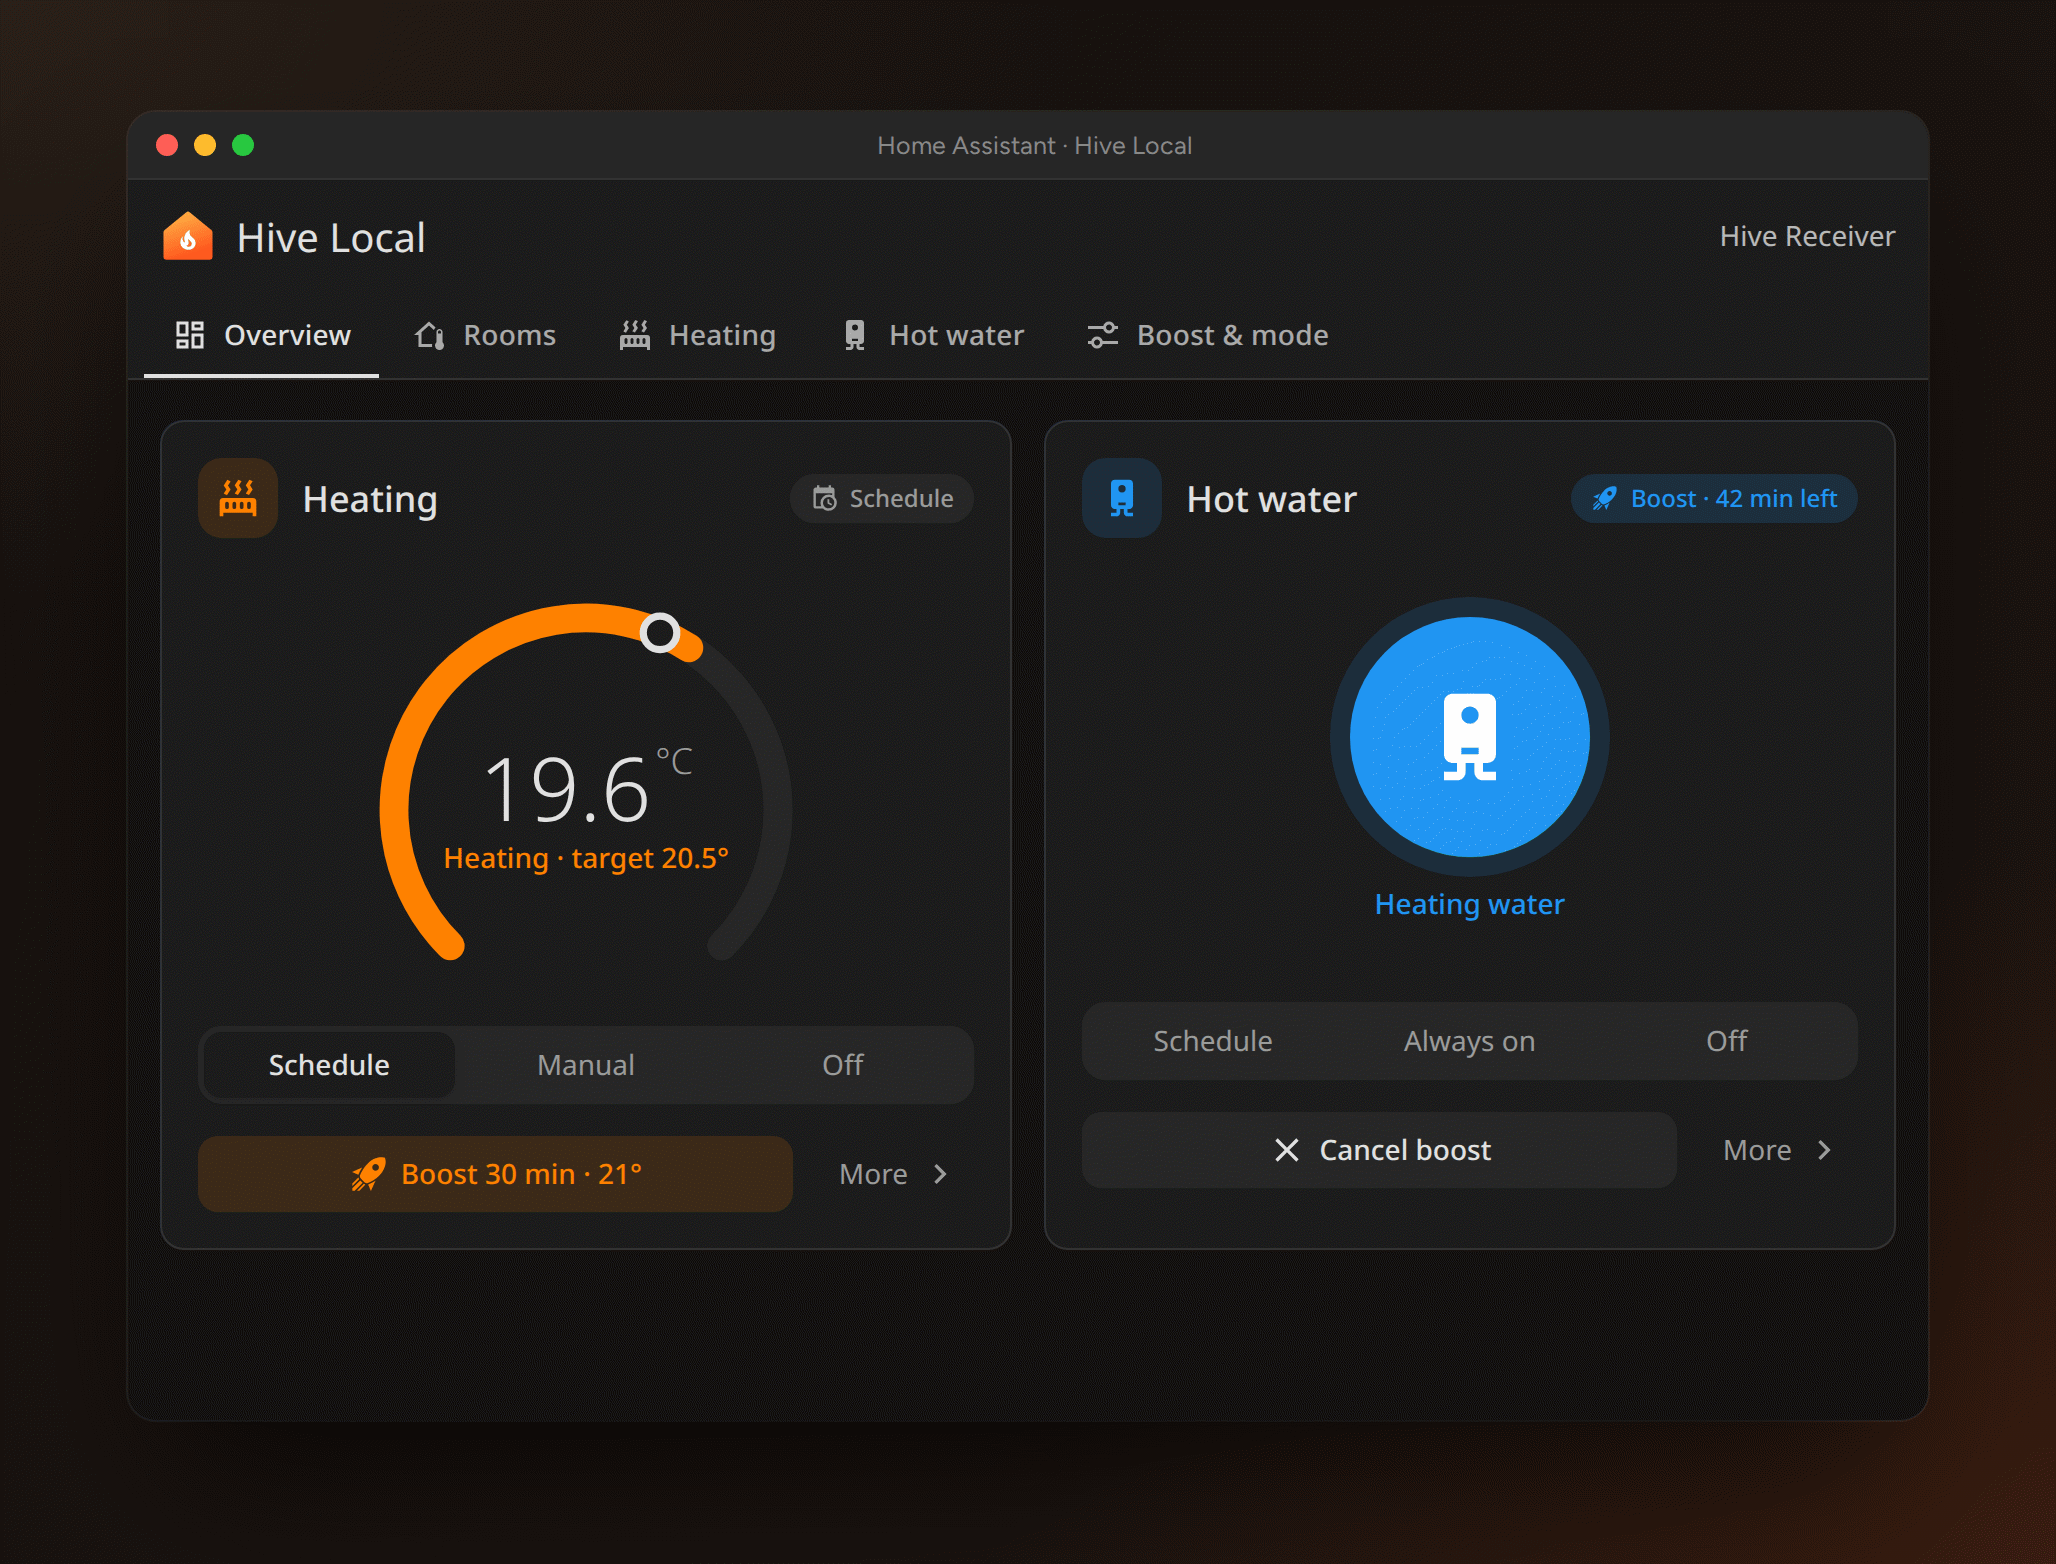
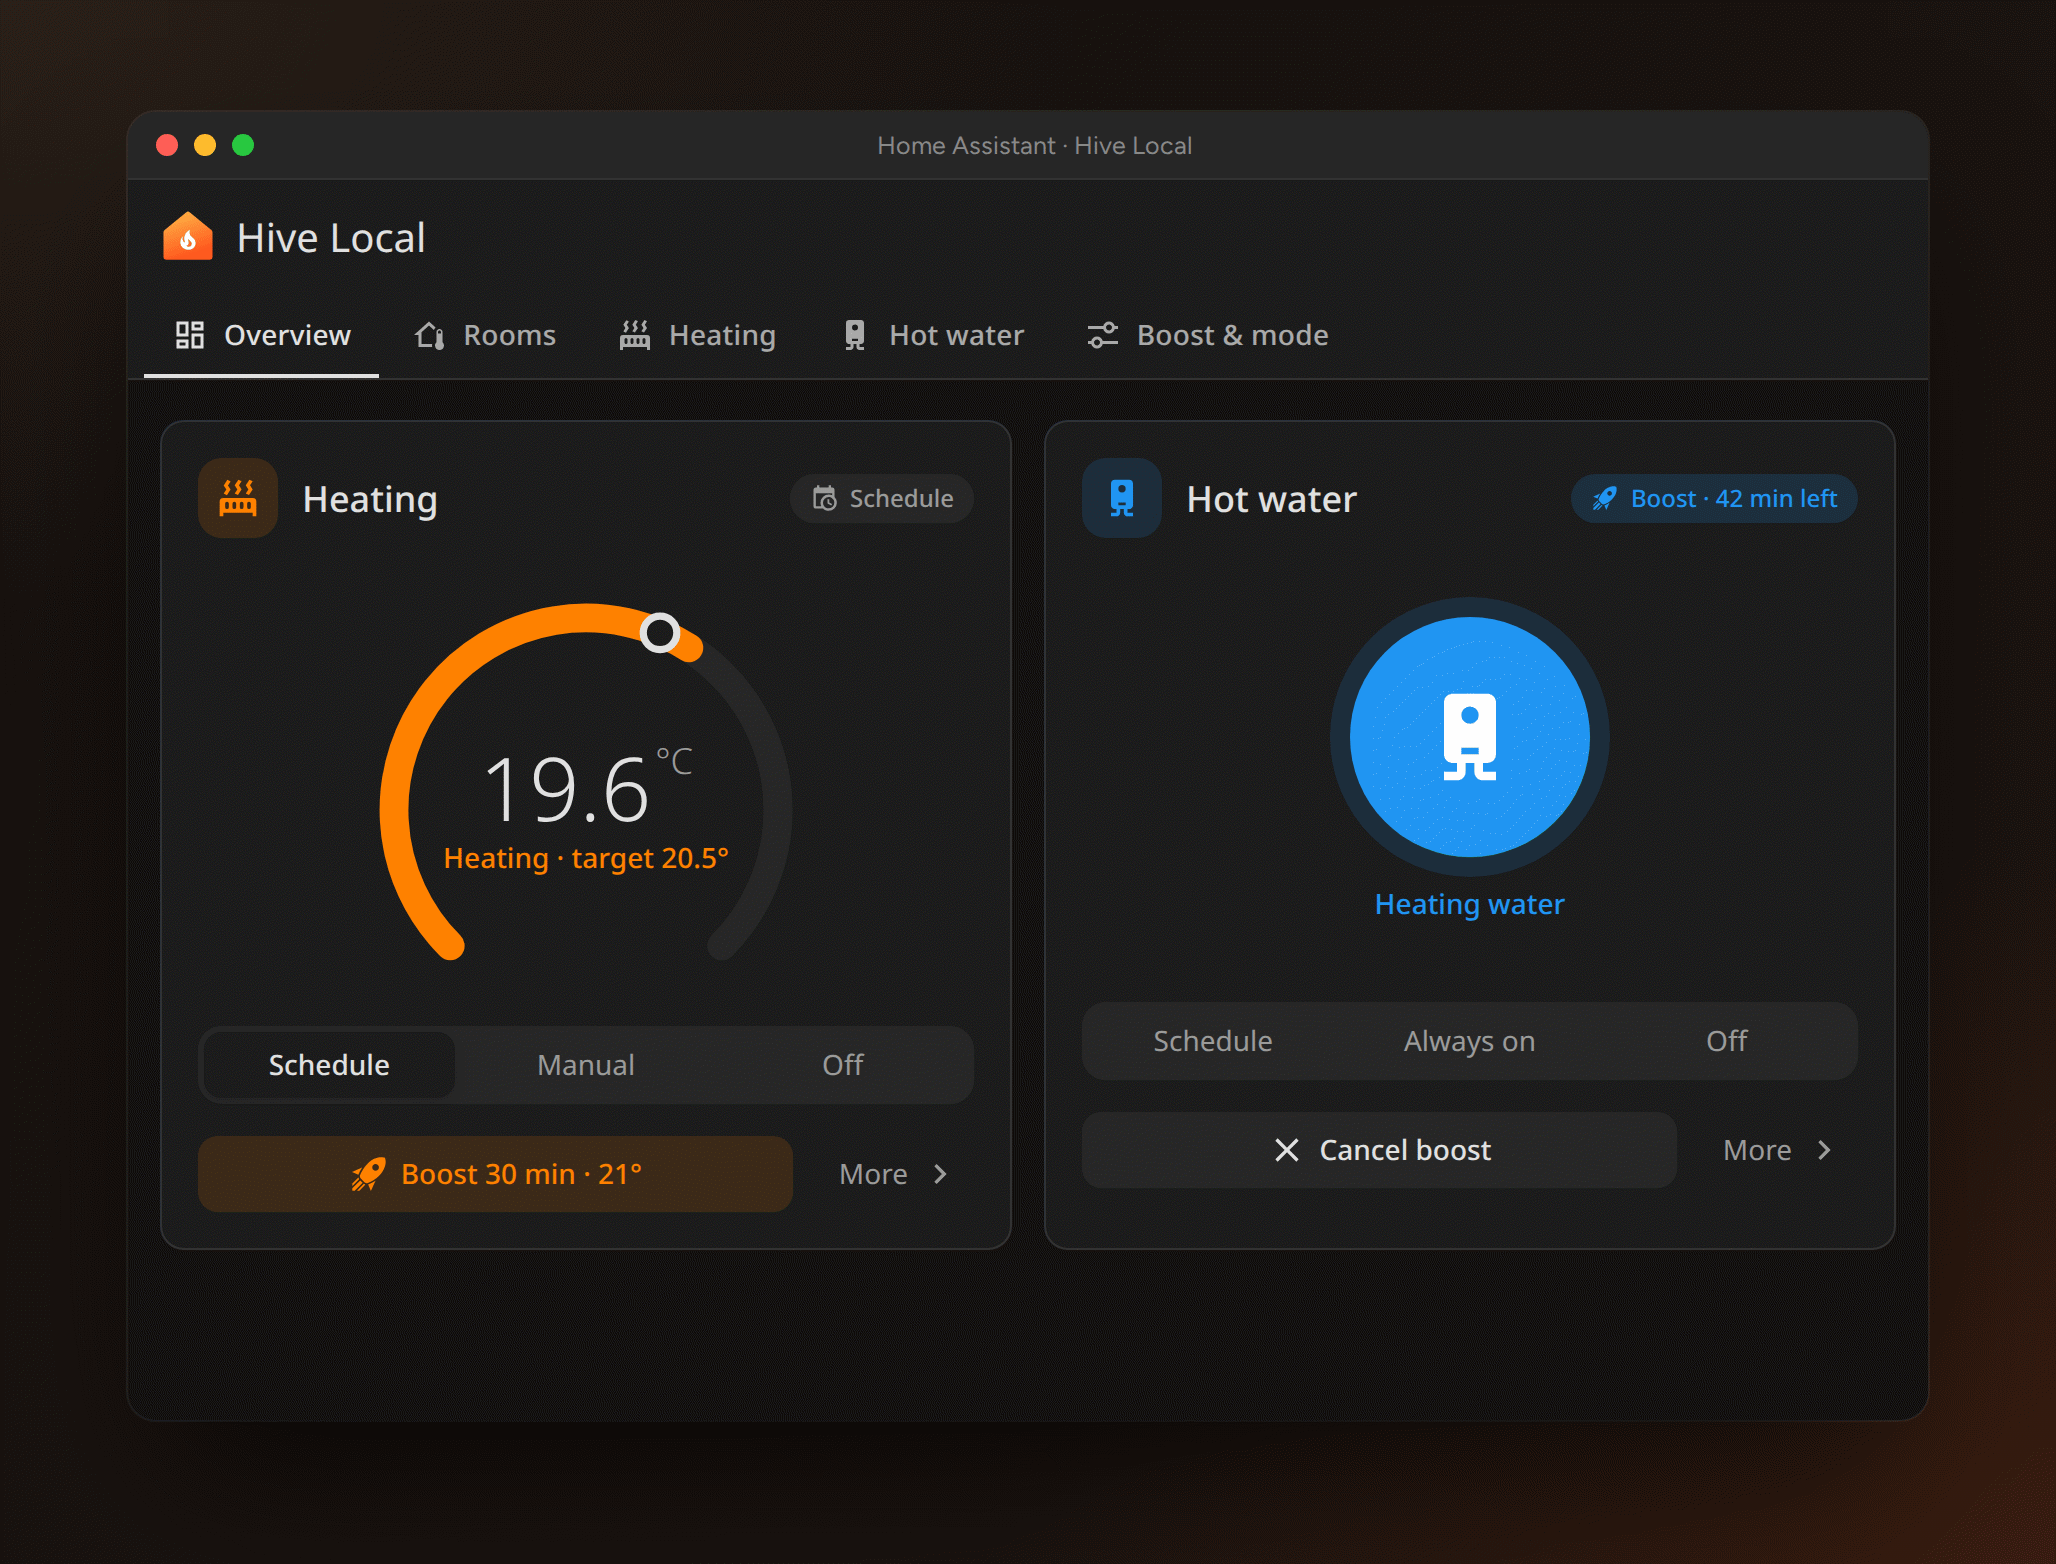
Drop the receiver name from the panel header
It labelled which receiver the switcher was on; the switcher is gone and
the header now carries the Hive Local name. With several receivers, the
name shows when you click into one. Also drop the unused switcher styles
and retake the screenshots.

Changed region(s): [[0.8405, 0.1228, 0.9027, 0.1535]]

diff --git a/custom_components/hive_local/frontend/hive-local-panel.js b/custom_components/hive_local/frontend/hive-local-panel.js
@@ -6498,8 +6498,7 @@ function Sp({ getHass: e, narrow: t, onToggleMenu: n }) {
         t && /* @__PURE__ */ u.jsx("button", { className: "menu", onClick: n, "aria-label": "Menu", children: /* @__PURE__ */ u.jsx(F, { name: "menu" }) }),
         /* @__PURE__ */ u.jsx(ba, {}),
         /* @__PURE__ */ u.jsx("h1", { children: "Hive Local" }),
-        /* @__PURE__ */ u.jsx("span", { className: "spacer" }),
-        r.length === 1 && /* @__PURE__ */ u.jsx("span", { className: "device-name", children: r[0].name })
+        /* @__PURE__ */ u.jsx("span", { className: "spacer" })
       ] }),
       /* @__PURE__ */ u.jsx("nav", { className: "tabs", role: "tablist", children: f.map((c) => /* @__PURE__ */ u.jsxs("button", { role: "tab", "aria-selected": c.id === d, className: c.id === d ? "on" : "", onClick: () => v(c.id), children: [
         /* @__PURE__ */ u.jsx(F, { name: c.icon }),
@@ -6558,9 +6557,6 @@ header { position: sticky; top: 0; z-index: 2; background: var(--app-header-back
 .empty-state .logo-mark { opacity: .9; }
 .toolbar-row .menu { background: transparent; border: 0; color: inherit; padding: 8px; margin-left: -8px; border-radius: 50%; }
 .toolbar-row .menu:hover { background: rgba(255,255,255,.12); }
-.device-name { font-size: 14px; opacity: .8; }
-.device-select { background: rgba(255,255,255,.14); color: inherit; border-color: transparent; }
-.device-select option { color: var(--primary-text-color); background: var(--card-background-color); }
 .tabs { display: flex; gap: 2px; padding: 0 8px; overflow-x: auto; scrollbar-width: none; }
 .tabs button { flex: none; display: inline-flex; align-items: center; gap: 8px; border: 0; border-radius: 0; background: transparent; color: inherit; opacity: .72; padding: 12px 14px 10px; border-bottom: 2px solid transparent; font-weight: 500; letter-spacing: .01em; }
 .tabs button:hover { opacity: .95; background: rgba(255,255,255,.06); }
@@ -6739,7 +6735,6 @@ select, input[type=time], input[type=text] { font: inherit; font-size: 14px; pad
   .tabs { gap: 0; }
   .tabs button { padding: 12px 7px 10px; font-size: 12.5px; letter-spacing: 0; }
   .tabs .icon-wrap { display: none; }
-  .device-name { display: none; }
 }
 `
 );

diff --git a/frontend/src/styles.ts b/frontend/src/styles.ts
@@ -30,9 +30,6 @@ header { position: sticky; top: 0; z-index: 2; background: var(--app-header-back
 .empty-state .logo-mark { opacity: .9; }
 .toolbar-row .menu { background: transparent; border: 0; color: inherit; padding: 8px; margin-left: -8px; border-radius: 50%; }
 .toolbar-row .menu:hover { background: rgba(255,255,255,.12); }
-.device-name { font-size: 14px; opacity: .8; }
-.device-select { background: rgba(255,255,255,.14); color: inherit; border-color: transparent; }
-.device-select option { color: var(--primary-text-color); background: var(--card-background-color); }
 .tabs { display: flex; gap: 2px; padding: 0 8px; overflow-x: auto; scrollbar-width: none; }
 .tabs button { flex: none; display: inline-flex; align-items: center; gap: 8px; border: 0; border-radius: 0; background: transparent; color: inherit; opacity: .72; padding: 12px 14px 10px; border-bottom: 2px solid transparent; font-weight: 500; letter-spacing: .01em; }
 .tabs button:hover { opacity: .95; background: rgba(255,255,255,.06); }
@@ -211,6 +208,5 @@ select, input[type=time], input[type=text] { font: inherit; font-size: 14px; pad
   .tabs { gap: 0; }
   .tabs button { padding: 12px 7px 10px; font-size: 12.5px; letter-spacing: 0; }
   .tabs .icon-wrap { display: none; }
-  .device-name { display: none; }
 }
 `;

diff --git a/frontend/src/App.tsx b/frontend/src/App.tsx
@@ -95,7 +95,6 @@ export function App({ getHass, narrow, onToggleMenu }: Props) {
           <Logo />
           <h1>Hive Local</h1>
           <span className="spacer" />
-          {devices.length === 1 && <span className="device-name">{devices[0].name}</span>}
         </div>
         <nav className="tabs" role="tablist">
           {tabs.map((t) => (
